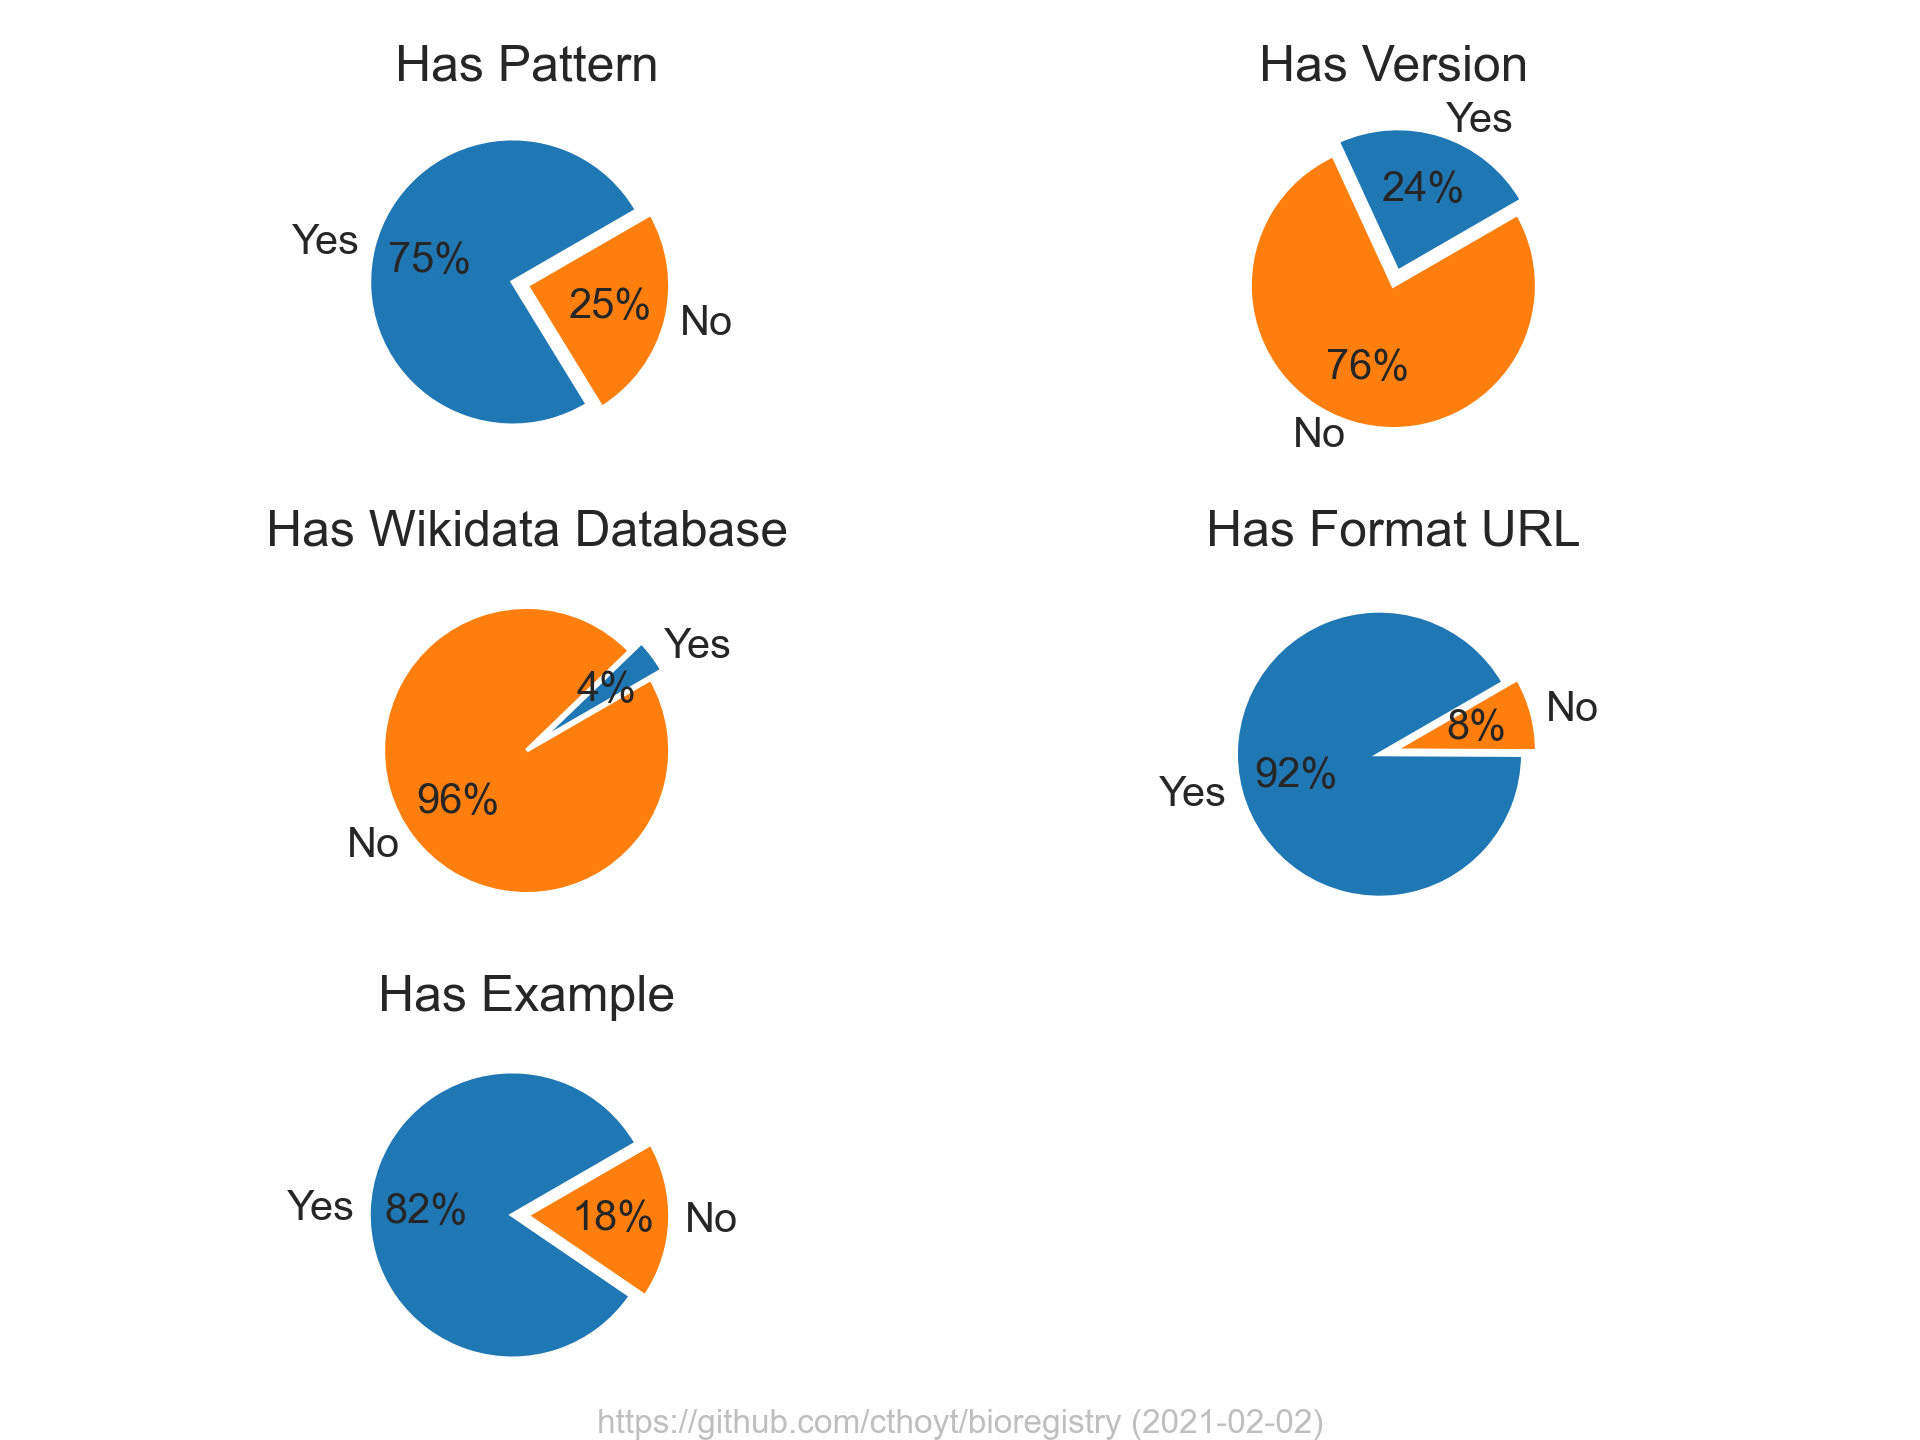
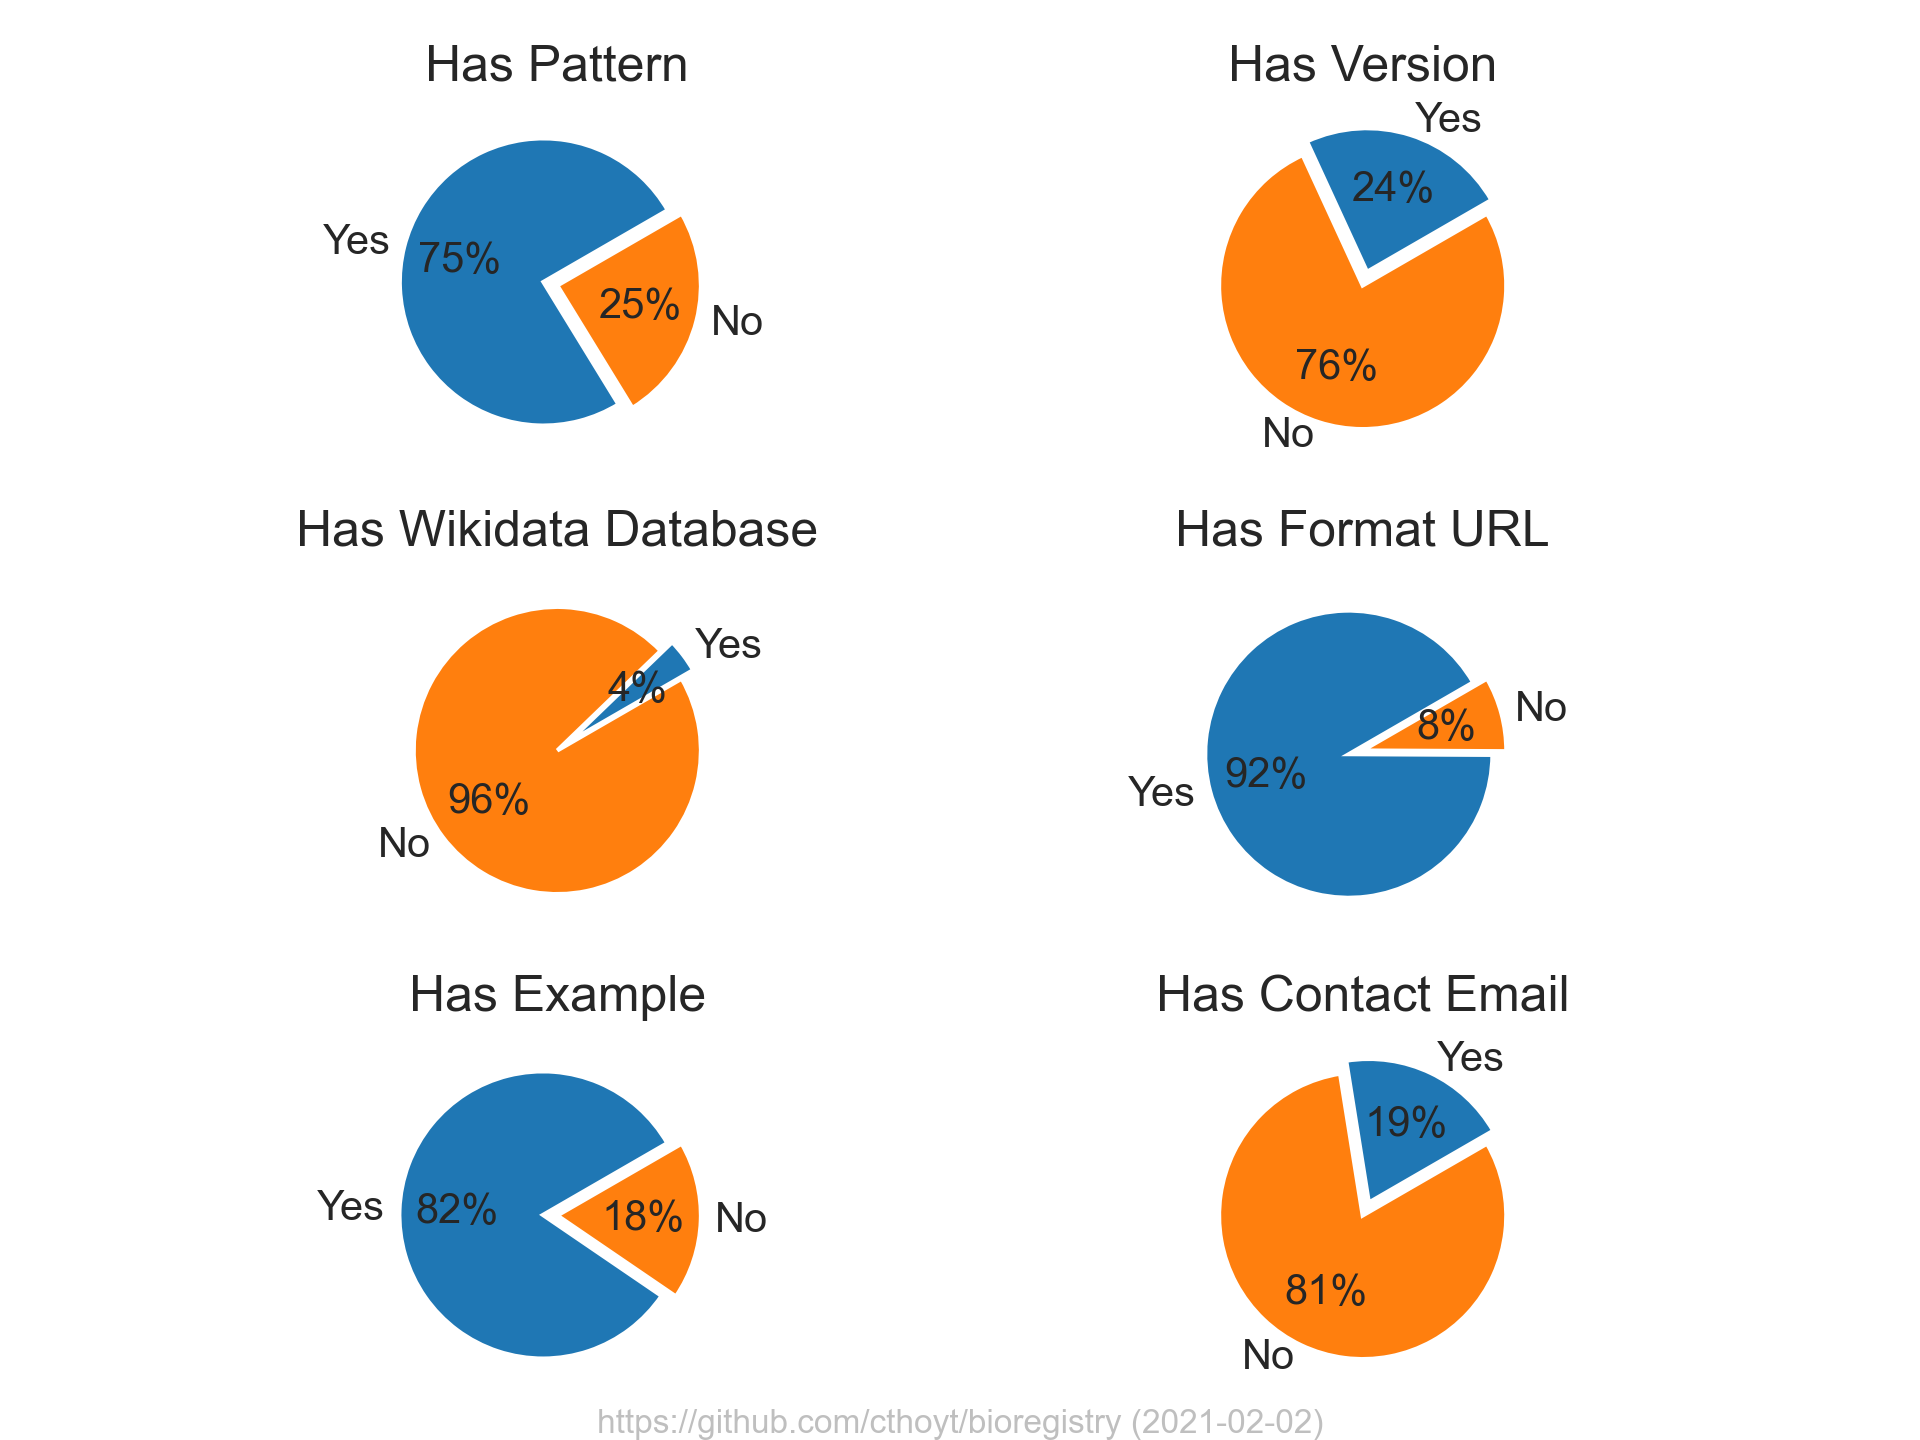
Add checks for contact email

diff --git a/src/bioregistry/resolve.py b/src/bioregistry/resolve.py
@@ -20,6 +20,7 @@ __all__ = [
     'get_format',
     'get_example',
     'is_deprecated',
+    'get_email',
     'normalize_prefix',
     'get_version',
     'get_versions',
@@ -147,6 +148,20 @@ def is_deprecated(prefix: str) -> bool:
     return False
 
 
+def get_email(prefix: str) -> Optional[str]:
+    """Return the contact email, if available."""
+    entry = get(prefix)
+    if entry is None:
+        return None
+
+    for key in ('obofoundry', 'ols'):
+        obo_email = entry.get(key, {}).get('contact')
+        if obo_email:
+            return obo_email
+
+    return None
+
+
 def normalize_prefix(prefix: str) -> Optional[str]:
     """Get the normalized prefix, or return None if not registered.
 
@@ -232,11 +247,14 @@ def get_versions() -> Mapping[str, str]:
             continue
         version = bioregistry_entry['ols'].get('version')
         if version is None:
-            logger.warning('[%s] missing version', bioregistry_id)
+            logger.warning('[%s] missing version. Contact: %s', bioregistry_id, get_email(bioregistry_id))
             continue
 
         if version != version.strip():
-            logger.warning('[%s] extra whitespace in version: %s', bioregistry_id, version)
+            logger.warning(
+                '[%s] extra whitespace in version: %s. Contact: %s',
+                bioregistry_id, version, get_email(bioregistry_id),
+            )
             version = version.strip()
 
         version_prefix = bioregistry_entry.get('ols_version_prefix')
@@ -259,7 +277,10 @@ def get_versions() -> Mapping[str, str]:
 
         if version_date_fmt:
             if version_date_fmt in {"%Y-%d-%m"}:
-                logger.warning('[%s] confusing date format: %s', bioregistry_id, version_date_fmt)
+                logger.warning(
+                    '[%s] confusing date format: %s. Contact: %s', bioregistry_id, version_date_fmt,
+                    get_email(bioregistry_id),
+                )
             try:
                 version = datetime.datetime.strptime(version, version_date_fmt)
             except ValueError:

diff --git a/src/bioregistry/compare.py b/src/bioregistry/compare.py
@@ -11,7 +11,7 @@ from typing import Collection, Set
 
 import click
 
-from bioregistry import get_example, get_format, get_pattern, get_version, read_bioregistry
+from bioregistry import get_email, get_example, get_format, get_pattern, get_version, read_bioregistry
 from bioregistry.constants import DOCS_IMG
 from bioregistry.external import get_go, get_miriam, get_n2t, get_obofoundry, get_ols, get_wikidata_registry
 
@@ -172,12 +172,14 @@ def compare():  # noqa:C901
     }
     has_formatter = {key for key in bioregistry if get_format(key)}
     has_example = {key for key in bioregistry if get_example(key)}
+    has_email = {key for key in bioregistry if get_email(key)}
     measurements = [
         ('Pattern', has_pattern),
         ('Version', has_version),
         ('Wikidata Database', has_wikidata_database),
         ('Format URL', has_formatter),
         ('Example', has_example),
+        ('Contact Email', has_email),
     ]
     fig, axes = plt.subplots(ncols=2, nrows=(1 + len(measurements)) // 2)
     for (label, prefixes), ax in zip(measurements, axes.ravel()):

diff --git a/src/bioregistry/__init__.py b/src/bioregistry/__init__.py
@@ -3,7 +3,7 @@
 """Extract registry information."""
 
 from .resolve import (  # noqa
-    get, get_example, get_format, get_name, get_pattern, get_pattern_re, get_version, get_versions, is_deprecated,
-    namespace_in_lui, normalize_prefix, validate,
+    get, get_email, get_example, get_format, get_name, get_pattern, get_pattern_re, get_version, get_versions,
+    is_deprecated, namespace_in_lui, normalize_prefix, validate,
 )
 from .utils import read_bioregistry  # noqa
